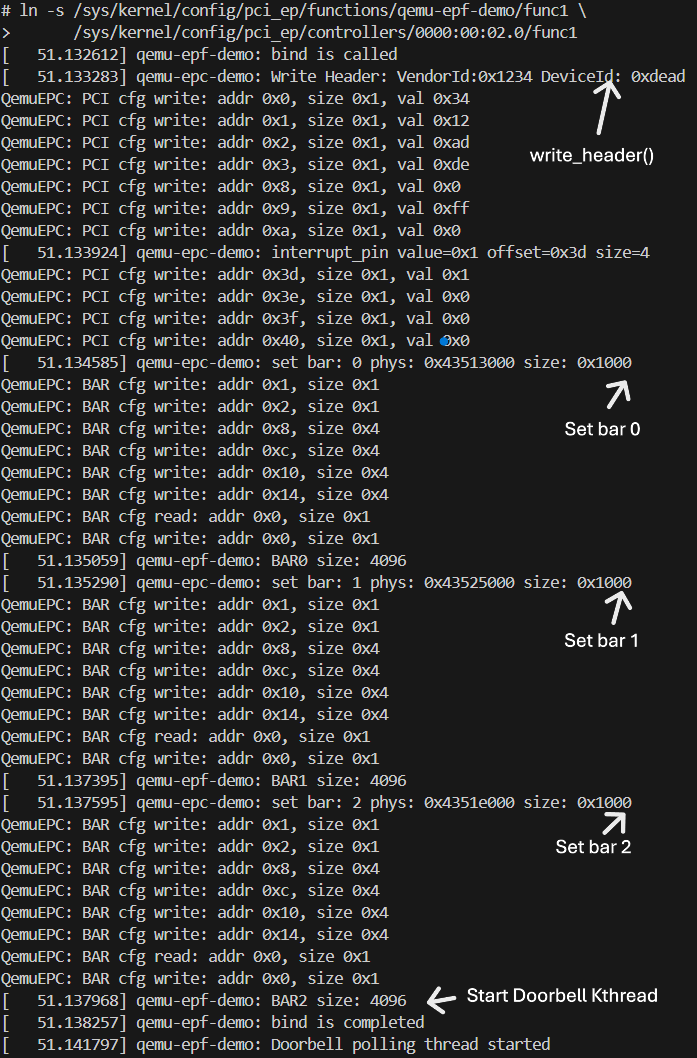
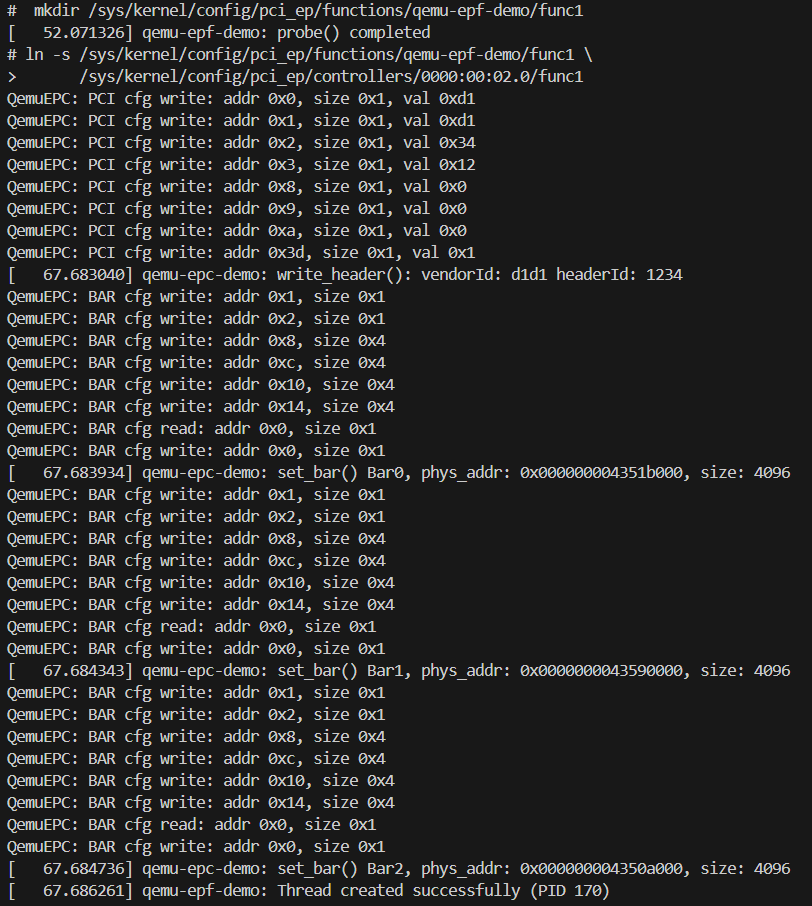
Report amend

Changed region(s): [[0.0, 0.0, 0.9943, 1.0], [0.934, 0.7108, 0.9641, 0.7417], [0.934, 0.4945, 0.9641, 0.5254]]

diff --git a/epf-host-demo.c b/epf-host-demo.c
@@ -1,3 +1,4 @@
+// SPDX-License-Identifier: GPL-2.0
 #include <linux/module.h>
 #include <linux/pci.h>
 #include <linux/pci-epf.h>
@@ -62,17 +63,13 @@ static int epf_host_probe(struct pci_dev *pdev, const struct pci_device_id *id)
 
     pr_info("epf-host: probe %s\n", pci_name(pdev));
 
-    /* 1. Enable the device, interrupt, bar, device ready */
     err = pci_enable_device(pdev);
     if (err) {
         pr_err("epf-host: pci_enable_device() failed: %d\n", err);
         return err;
     }
 
-    /* 2. Set Master */
     pci_set_master(pdev);
-    
-    /* 3. Request Region: So that no other device will use the address region */
     err = pci_request_regions(pdev, "epf-host");
     if (err) {
         pr_err("epf-host: pci_request_region() failed: %d\n", err);
@@ -90,7 +87,6 @@ static int epf_host_probe(struct pci_dev *pdev, const struct pci_device_id *id)
 
     priv->pdev = pdev;
 
-    /* map physical address to virtual address */
     priv->bar0 = pcim_iomap(pdev, BAR_0, 0);
     priv->bar1 = pcim_iomap(pdev, BAR_1, 0);
     priv->bar2 = pcim_iomap(pdev, BAR_2, 0);
@@ -100,7 +96,7 @@ static int epf_host_probe(struct pci_dev *pdev, const struct pci_device_id *id)
         goto err_release;
     }
 
-    /* Extra: Register Interrupt handler */
+    /* Register Interrupt handler */
     err = request_irq(pdev->irq, epf_host_irq_handler, IRQF_SHARED,
                       "epf-host", priv);
     if (err) {
@@ -167,3 +163,4 @@ module_pci_driver(epf_host_driver);
 MODULE_DESCRIPTION("QEMU Host side driver");
 MODULE_AUTHOR("Elton Wong");
 MODULE_LICENSE("GPL");
+

diff --git a/qemu-epf-demo.c b/qemu-epf-demo.c
@@ -166,10 +166,12 @@ static int qemu_epf_probe(struct pci_epf *epf)
         pr_info("qemu-epf-demo: devm_kzalloc() failed\n");
         return -ENOMEM;
     }
+
     priv->epf = epf;
     priv->kthr_stop = 0;
     epf_set_drvdata(epf, priv);
 
+    epf->driver = qemu_epf_header;
     pr_info("qemu-epf-demo: probe() completed\n");
     return 0;
 }

diff --git a/qemu-epc-demo.c b/qemu-epc-demo.c
@@ -16,7 +16,7 @@
 #define QEMU_EPC_BAR_BAR_CFG   2
 #define QEMU_EPC_BAR_OB_WINDOW 3
 
-/* PCI_CFG register offset */
+/* CTRL register offset */
 #define QEMU_EPC_CTRL_OFF_START       0x00
 #define QEMU_EPC_CTRL_OFF_WIN_START   0x08
 #define QEMU_EPC_CTRL_OFF_WIN_SIZE    0x10

diff --git a/README.md b/README.md
@@ -18,8 +18,6 @@ The system consists of four components running across two virtual machines conne
 
 ### 1.2 Communication Flow
 
-
-
 The end-to-end flow for a single request/response cycle:
 
 ```
@@ -89,7 +87,7 @@ a bit about the demo underlying hardware: `qemu-epc`, which is the device that `
 #define QEMU_EPC_BAR_BAR_CFG   2
 #define QEMU_EPC_BAR_OB_WINDOW 3
 ```
-and each region contains multiple registers at different offset, for example:
+and each region contains multiple registers at different offset, for example below is the register offsets to configure BAR
 
 ```c
 /* BAR Register offsets */
@@ -177,12 +175,9 @@ static struct pci_driver qemu_epc_driver = {
     .id_table = qemu_epc_id_table,
 };
 ```
-The kernel executes bus enumeration, scanning the PCI bus for a device
-matching our vendor/device ID. If found, our `.probe()` function is
-called to set up the device.
+The kernel executes bus enumeration, scanning the PCI bus for a device matching our vendor/device ID. If found, our `.probe()`function is called to set up the device.
 
-In the `.probe()`, we first enable the device and configure the BAR
-regions using managed (devres) APIs:
+In the `.probe()`, we first enable the device and configure the BAR regions using the APIs below:
 
 - `pcim_enable_device()`: Enable the device, make interrupts work, and
   mark the device ready-to-use. The `pcim_` prefix means cleanup is
@@ -202,7 +197,7 @@ Remember our demo device `qemu-epc` has 4 BAR regions. We use
 `pcim_iomap_table()` to retrieve the mapped virtual addresses and store
 them in a private struct so that our `pci_epc_ops` implementations can
 reference them:
-
+g 
 ```c
 struct qemu_epc_data {
     struct pci_dev* dev;
@@ -224,6 +219,7 @@ void __iomem **iotbl;
 
 priv = devm_kzalloc(&dev->dev, sizeof(struct qemu_epc_data), GFP_KERNEL);
 ...
+
 ret = pcim_iomap_regions(dev,
                         BIT(QEMU_EPC_BAR_CTRL) |
                         BIT(QEMU_EPC_BAR_BAR_CFG) |
@@ -246,7 +242,8 @@ epc_set_drvdata(priv->epc, (void*) priv);
 dev_set_drvdata(&dev->dev, (void*) priv);
 
 ```
-This is the key function call, creating the `struct pci_epc` and bind it with our `pci_epc_ops` functions. After the function call, it causes the Configfs creating directory under `../configfs/pci_ep/controllers/qemu-epc-demo`.
+
+`devm_pci_epc_create` create `struct pci_epc` and bind it with our `pci_epc_ops` functions. After the function call, the Configfs creates a directory under `../configfs/pci_ep/controllers/qemu-epc-demo`.
 
 At last we will store the `priv` as the epc driver data with `epc_set_drvdata(epc, priv)` and the device driver data with `pci_set_drvdata(dev, priv)`.
 
@@ -277,22 +274,17 @@ first, then write a single "go" register to apply them atomically.
 
 ### 3.4 Tracing `write_header()` and `raise_irq`
 
-**`write_header`** receives a `struct pci_epf_header` containing the vendor_id, driver_id, revision, class code and interrupt pin. The EPC writes these values into the controller's PCI configuration space region. This is what the host see when it enumerate the PCIe bus - the host read the config space to discover the device's identities and capabilities. In the demo, we write vendor ID `0x1234` and device ID `0xDEAD`, which is what the host driver expect to match against.
+**`write_header`** receives a `struct pci_epf_header` containing the vendor_id, driver_id, revision, class code and interrupt pin. The EPC writes these values into the controller's PCI configuration space region. This is what the host see when it enumerate the PCIe bus - the host read the config space to discover the device's identities and capabilities. In the demo, we write vendor ID `0xd1d1` and device ID `0x1234`, which is what the host driver expect to match against.
 
 **`raise_irq`** is called by the EPF driver after it has finished processing a request and wants to notify the host. It receives a IRQ type (legacy, MSI, MSI-X) and an interrupt number - the IRQ type first, then the interrupt number. Writing the interrupt number is the trigger; the hardware sends a TLP message to the host, which cause the host'd IRQ handler to fire.
 
-Both functions follow the same pattern as `set_bar()`: the EPF driver
-calls a generic `pci_epc_*()` API, the EPC core dispatches through the
-vtable, and the EPC driver translates the call into hardware-specific
-register writes. The EPF driver never knows or cares which registers
-are being written — it just calls the standard interface.
-
+Both functions follow the same pattern as `set_bar()`: the EPF driver calls a generic `pci_epc_*()` API, the EPC core dispatches through the vtable, and the EPC driver translates the call into hardware-specific register writes. 
 
 ## 4. EPF Layer - Functional Driver
 
 ### 4.1 EPF Bus
 
-The EPF subsystem has its own bus type: `pci_epf_bus_type`, which means that there is also an epf-device. This is specially designed so that the EPF driver talk to the EPF device, exposing the functional detail and configurations which are later exposed to the Host, without knowing what the underlying hardware is. Such design makes writing an EPF driver feels like writing a normal PCI driver.
+The EPF subsystem has its own bus type: `pci_epf_bus_type`, which means that there is also an epf-device. This is specially designed so that the EPF driver talk to the EPF device, exposing the functional detail and configurations which are later exposed to the host, without knowing what the underlying hardware is. Such design makes writing an EPF driver feels like writing a normal PCI driver.
 
 The EPF device and driver are matched with their name:
 ```c
@@ -338,7 +330,7 @@ static int qemu_epf_probe(struct pci_epf *epf)
 }
 ```
 
-The demo `.probe()` function does 1 things: Allocate memory for the demo private data and save it in the struct pci_epf - so that it could be used in the `.bind()` function when EPF device link with EPC device.
+The demo `.probe()` function does 1 things: Allocate memory for the demo private data and save it in the `struct pci_epf` so that it could be used in the `.bind()` function when EPF device link with EPC device.
 
 ### 4.3 Bind - Where Everything happen
 
@@ -348,7 +340,7 @@ ln -s /sys/kernel/config/pci_ep/functions/qemu-epf-demo/func1 \
       /sys/kernel/config/pci_ep/controllers/<bus:device:function>/func1
 ```
 
-This symlink basically tells the framework to connect this EPF device to this EPC controller. The VFS forwards the symlink operation to configfs, whichhas registered an `allow_link` callback on the controller group. This callback is `pci_primary_epc_epf_link` in `pci-ep-cfs.c`:
+This symlink basically tells the framework to connect this EPF device to this EPC controller. The VFS forwards the symlink operation to configfs, which registered an `allow_link` callback on the controller group. This callback is `pci_primary_epc_epf_link` in `pci-ep-cfs.c`:
 
 ```c
 
@@ -425,7 +417,7 @@ pci_epc_raise_irq(epc, epf->func_no, ...);     // signal the host
 ```
 
 The EPF driver never touches a hardware register directly. It calls
-generic `pci_epc_*()` APIs, passing the `epc` pointer it obtained
+generic `pci_epc_*()` APIs, passing the `struct pci_epc` pointer it obtained
 through the bind. The EPC core dispatches these through the ops vtable
 to the hardware-specific implementation. The EPF driver focuses purely
 on the function logic — allocating BAR buffers, writing the magic
@@ -445,10 +437,14 @@ framework exposes the following directory structure:
 /sys/kernel/config/pci_ep/
 ├── controllers/          ← one entry per registered EPC
 │   └── 0000:00:02.0/    ← created by devm_pci_epc_create()
-│       ├── start
-│       └── secondary/
+│       └── start
+|
 └── functions/            ← one entry per registered EPF driver
-    └── qemu-epf-demo/   ← created by pci_epf_register_driver()
+    └── qemu-epf-demo/    ← created by pci_epf_register_driver()
+        └──primary/
+        └──secondary/
+        └──vendorId
+        ...
 ```
 
 The controller directory appears automatically when the EPC driver
@@ -546,7 +542,7 @@ echo 1 > /sys/kernel/config/pci_ep/controllers/0000:00:02.0/start
 ```
 
 Triggers `pci_epc_start()` → `qemu_epc_start()`, which writes to the
-QEMU control register. QEMU begins listening on the Unix socket for
+`qemu-epc` control register. `qemu-epc` begins listening on the Unix socket for
 TLP traffic from the host. The PCIe link is now live.
 ```
 [  275.560711] qemu-epc-demo: start
@@ -587,7 +583,6 @@ make ARCH=arm64 CROSS_COMPILE=aarch64-linux-gnu- O=../linux-arm64-build defconfi
 make ARCH=arm64 CROSS_COMPILE=aarch64-linux-gnu- O=../linux-arm64-build -j$(nproc)
 ```
 
-
 ### QEMU
 
 ``` bash
@@ -607,7 +602,6 @@ mkdir build && cd build
 # 4. Run configure from inside build/
 ../qemu-6.2.0/configure --target-list=x86_64-softmmu,aarch64-softmmu
 make -j$(nproc)
-
 ```
 
 ### Buildroot
@@ -634,7 +628,6 @@ make O=output-x86 -j$(nproc)
 make O=output-arm qemu_aarch64_virt_defconfig
 make O=output-arm menuconfig
 make O=output-arm -j$(nproc)
-
 ```
 
 ### Driver Installation
@@ -651,8 +644,6 @@ cp epf-host-demo.ko ~/pcie-demo/br/buildroot/output-x86/target/root/
 make O=output -j$(nproc) 
 make O=output-x86 -j$(nproc)
 ```
-
-
 
 ## Code Execution Flow
 - Sequence : First Set up Endpoint(ARM), then run Host(x86)
@@ -675,69 +666,40 @@ make O=output-x86 -j$(nproc)
 
 # 2. Load both driver
 > insmod /root/qemu-epf-demo.ko
-
-[   13.473434] qemu_epf_demo: loading out-of-tree module taints kernel.
-[   13.478579] qemu-epf-demo: driver registered
-
 > insmod /root/qemu-epc-demo.ko
 
-[   21.945494] qemu-epc-demo: probe 0000:00:02.0
-[   21.945800] qemu-epc 0000:00:02.0: enabling device (0000 -> 0002)
-[   21.947140] qemu-epc-demo: ctrl=(____ptrval____) pci_cfg=(____ptrval____) bar_cfg=(____ptrval____) ob_window=(____ptrval____)
-[   21.949019] qemu-epc-demo: EPC controller registered!
-[   21.949286] qemu-epc-demo: check /sys/kernel/config/pci_ep/controllers/
+```
 
+<img src="sc/ep-demo-1.png" width="70%">
 
+*Figure 1: EP VM — Mount configfs and load EPC/EPF drivers*
+<br></br><br></br>
+
+```bash
 # 3. Create EPF device
 > mkdir /sys/kernel/config/pci_ep/functions/qemu-epf-demo/func1
-[   41.314392] qemu-epf-demo: probe called
-
 
 # 4. Link EPF to EPC
 > ln -s /sys/kernel/config/pci_ep/functions/qemu-epf-demo/func1 \
       /sys/kernel/config/pci_ep/controllers/<bus:device:function>/func1
 #                                           ^^^^^^^^^^^^^^^^^^^^^
 #                                           lspci to check
+```
+<img src="sc/ep-demo-2.png" width="70%">
 
+*Figure 2: EP VM — Create EPF device and Link EPF to EPC*
+<br></br><br></br>
 
-[  118.965942] qemu-epf-demo: bind is called
-[  118.966618] qemu-epc-demo: Write Header: VendorId:0x1234 DeviceId: 0xdead
-...
-[  118.967158] qemu-epc-demo: interrupt_pin value=0x1 offset=0x3d size=4
-...
-[  118.967631] qemu-epc-demo: set bar: 0 phys: 0x43519000 size: 0x1000
-[  118.968116] qemu-epf-demo: BAR0 size: 4096
-...
-[  118.968342] qemu-epc-demo: set bar: 1 phys: 0x43569000 size: 0x1000
-[  118.968670] qemu-epf-demo: BAR1 size: 4096
-...
-[  118.968845] qemu-epc-demo: set bar: 2 phys: 0x4355b000 size: 0x1000
-[  118.969170] qemu-epf-demo: BAR2 size: 4096
-...
-[  118.969369] qemu-epf-demo: bind is completed
-[  118.972809] qemu-epf-demo: Doorbell polling thread started
-
+```bash
 # 5. Enable the QEMU-EPC device
 > echo 1 > /sys/kernel/config/pci_ep/controllers/<bus:device:function>/start
 
-[  275.560711] qemu-epc-demo: start
-[  275.665719] qemu-epc-demo: Qemu-EPC started
-
-
-
-# 6. Receive Host message (after insmod in host)
-
-[  301.993737] qemu-epf-demo: Receive doorbell from Host, size=43
-[  301.994080] qemu-epf-demo: Bar1 content:
-[  301.994244] Host write message to BAR 1, check it out
-[  301.994244] 
-[  301.994678] qemu-epf-demo: Send Message size: 43
-[  301.995114] qemu-epc-demo: Raise IRQ 1
-
 ```
 
-<img src="sc/ep-demo-1.png" width="80%"> <img src="sc/ep-demo-2.png" width="80%">
-<img src="sc/ep-demo-3.png" width="80%"> <img src="sc/ep-demo-4.png" width="80%">
+<img src="sc/ep-demo-3.png" width="60%">
+
+*Figure 3: EP VM - Start the hardware device*
+<br></br><br></br>
 
 
 ### 2. Host (x86)
@@ -752,16 +714,12 @@ make O=output-x86 -j$(nproc)
     -device epf-bridge
 
 > insmod epf-host-demo.ko
-
-[   10.584118] epf-host-demo: loading out-of-tree module taints kernel.
-[   10.589290] epf-host: probe 0000:00:04.0
-[   10.673986] ACPI: \_SB_.LNKD: Enabled at IRQ 10
-[   10.675135] epf-host: magic value verified
-[   10.675629] epf-host: probe is completed
-...
-[   10.678734] epf-host: Received IRQ 10
-[   10.679040] epf-host: Received Message Size: 43
-[   10.681190] epf-host: EP message: HOST WRITE MESSAGE TO bar 1, CHECK IT OUT
-[   10.681190] 
 ```
-<img src="sc/ep-demo-5.png" width="100%">
+<img src="sc/ep-demo-4.png" width="60%">
+
+*Figure 4: Host VM - Install device driver and message log to and from EP*
+<br></br><br></br>
+
+
+### Host <-> EP: Message Delivery
+<img src="sc/Host_EP_Com.png" width="100%">
